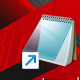
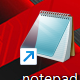
MA

diff --git a/automation/notepad.py b/automation/notepad.py
@@ -4,7 +4,7 @@ import pygetwindow as gw
 import time
 import os
 
-SAVE_DIRECTORY = os.path.join(os.path.expanduser("~"), "OneDrive", "Desktop", "tjm-project")
+SAVE_DIRECTORY = os.path.join(os.path.expanduser("~"), "Desktop", "tjm-project")
 
 
 def ensure_save_directory():